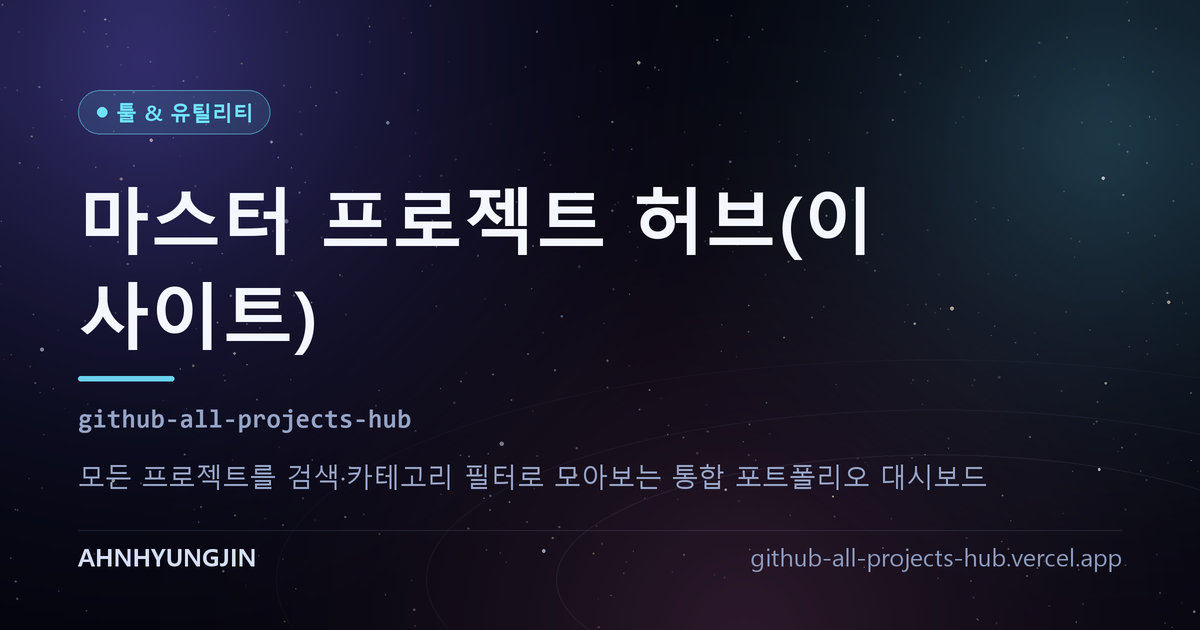
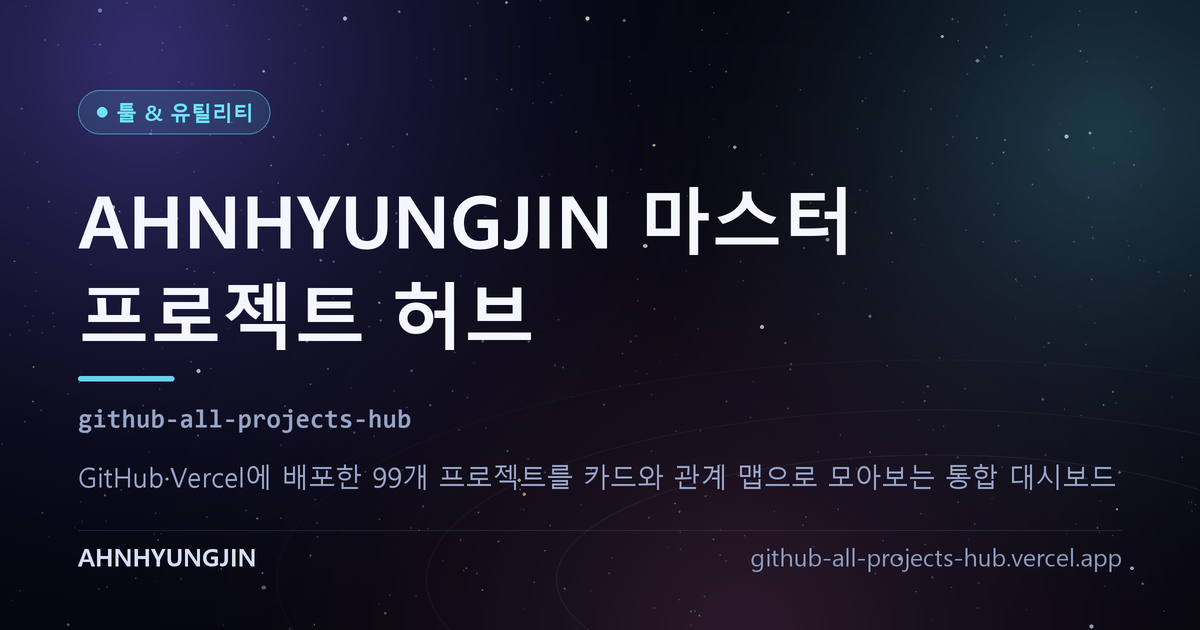
Use the site name on the share card, not the card label

Changed region(s): [[0.0617, 0.3016, 0.74, 0.4222], [0.0617, 0.7238, 0.925, 0.7841], [0.0617, 0.4524, 0.4625, 0.573]]

diff --git a/index.html b/index.html
@@ -1,4 +1,4 @@
-<!DOCTYPE html>
+<!DOCTYPE html>
 <html lang="ko">
 <head>
 <meta charset="UTF-8">
@@ -701,9 +701,9 @@
   <meta property="og:image" content="https://github-all-projects-hub.vercel.app/og.png">
   <meta property="og:image:width" content="1200">
   <meta property="og:image:height" content="630">
-  <meta property="og:image:alt" content="마스터 프로젝트 허브(이 사이트)">
+  <meta property="og:image:alt" content="AHNHYUNGJIN 마스터 프로젝트 허브">
   <meta name="twitter:card" content="summary_large_image">
-  <meta name="twitter:title" content="마스터 프로젝트 허브(이 사이트)">
+  <meta name="twitter:title" content="AHNHYUNGJIN 마스터 프로젝트 허브">
   <meta name="twitter:description" content="모든 프로젝트를 검색·카테고리 필터로 모아보는 통합 포트폴리오 대시보드">
   <meta name="twitter:image" content="https://github-all-projects-hub.vercel.app/og.png">
 </head>
